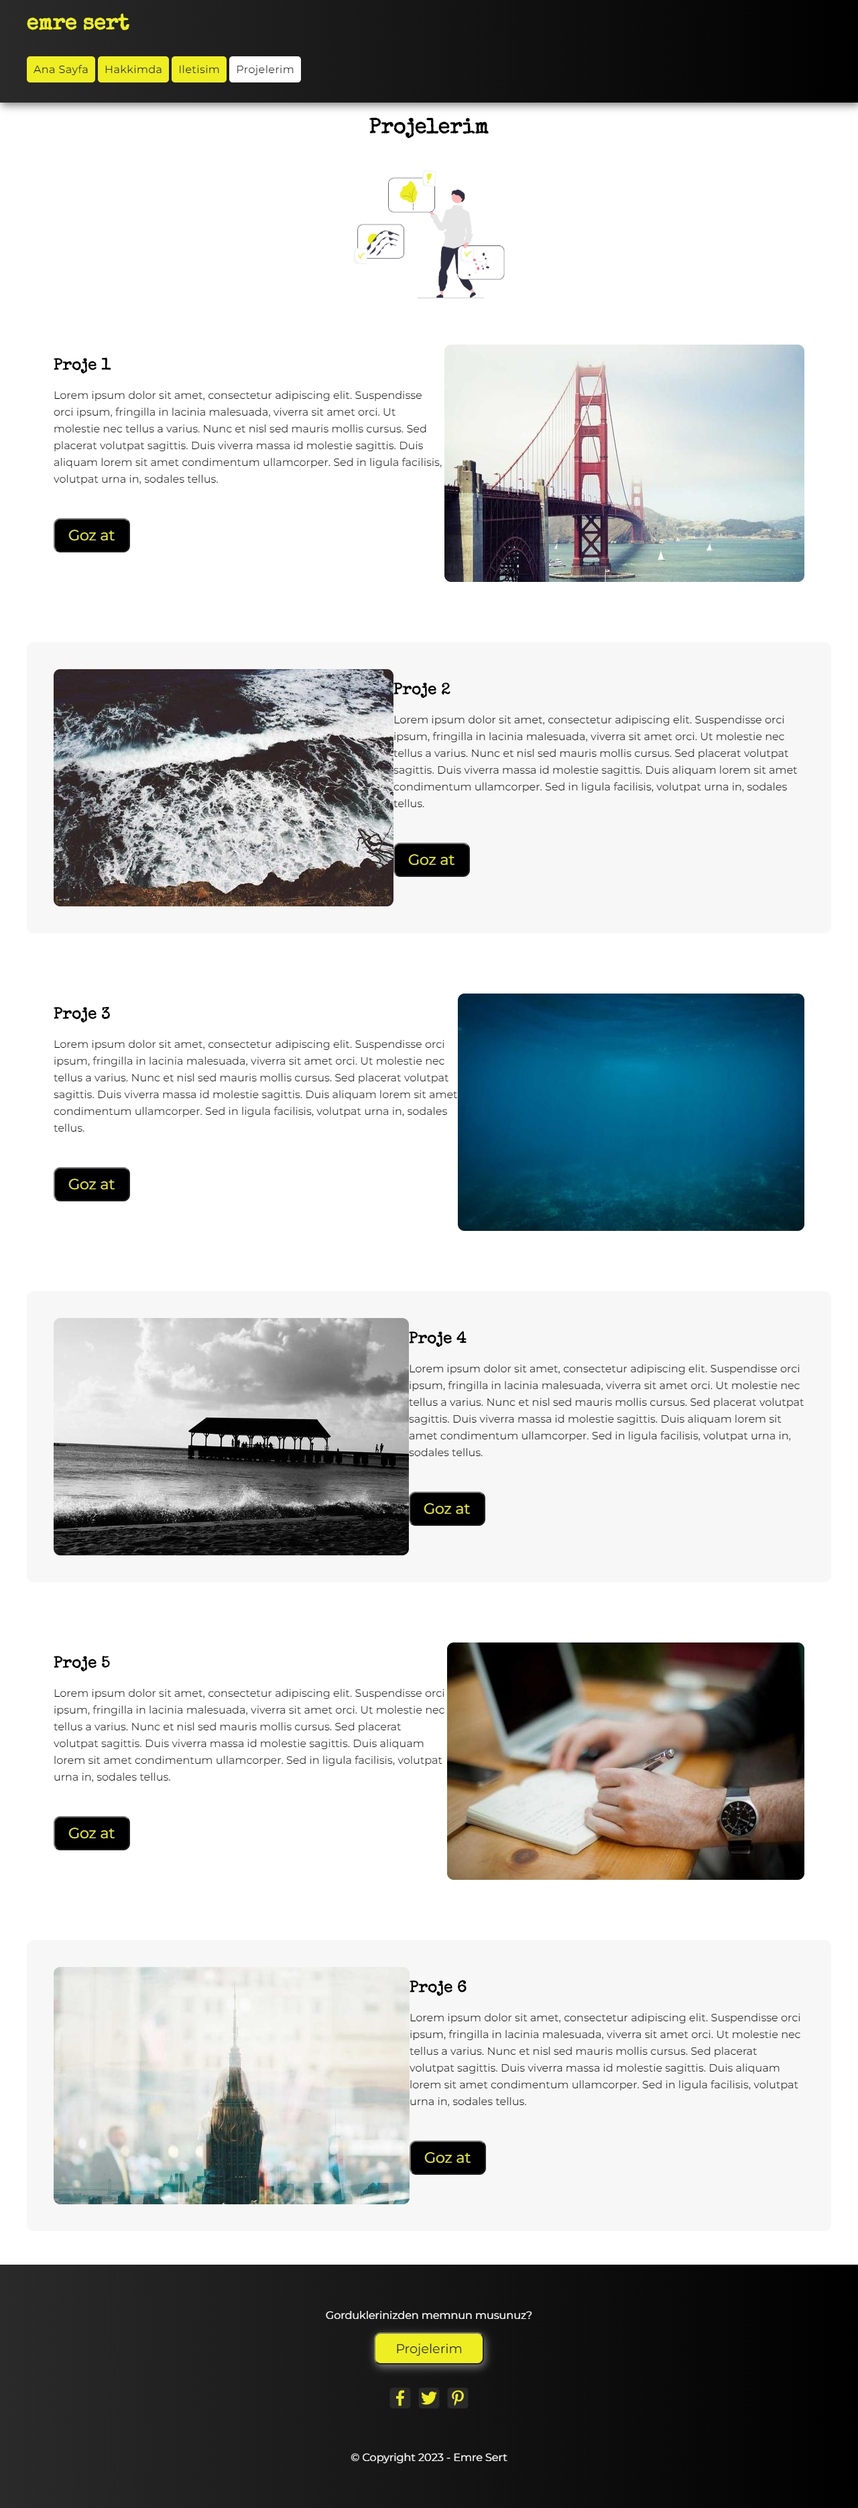
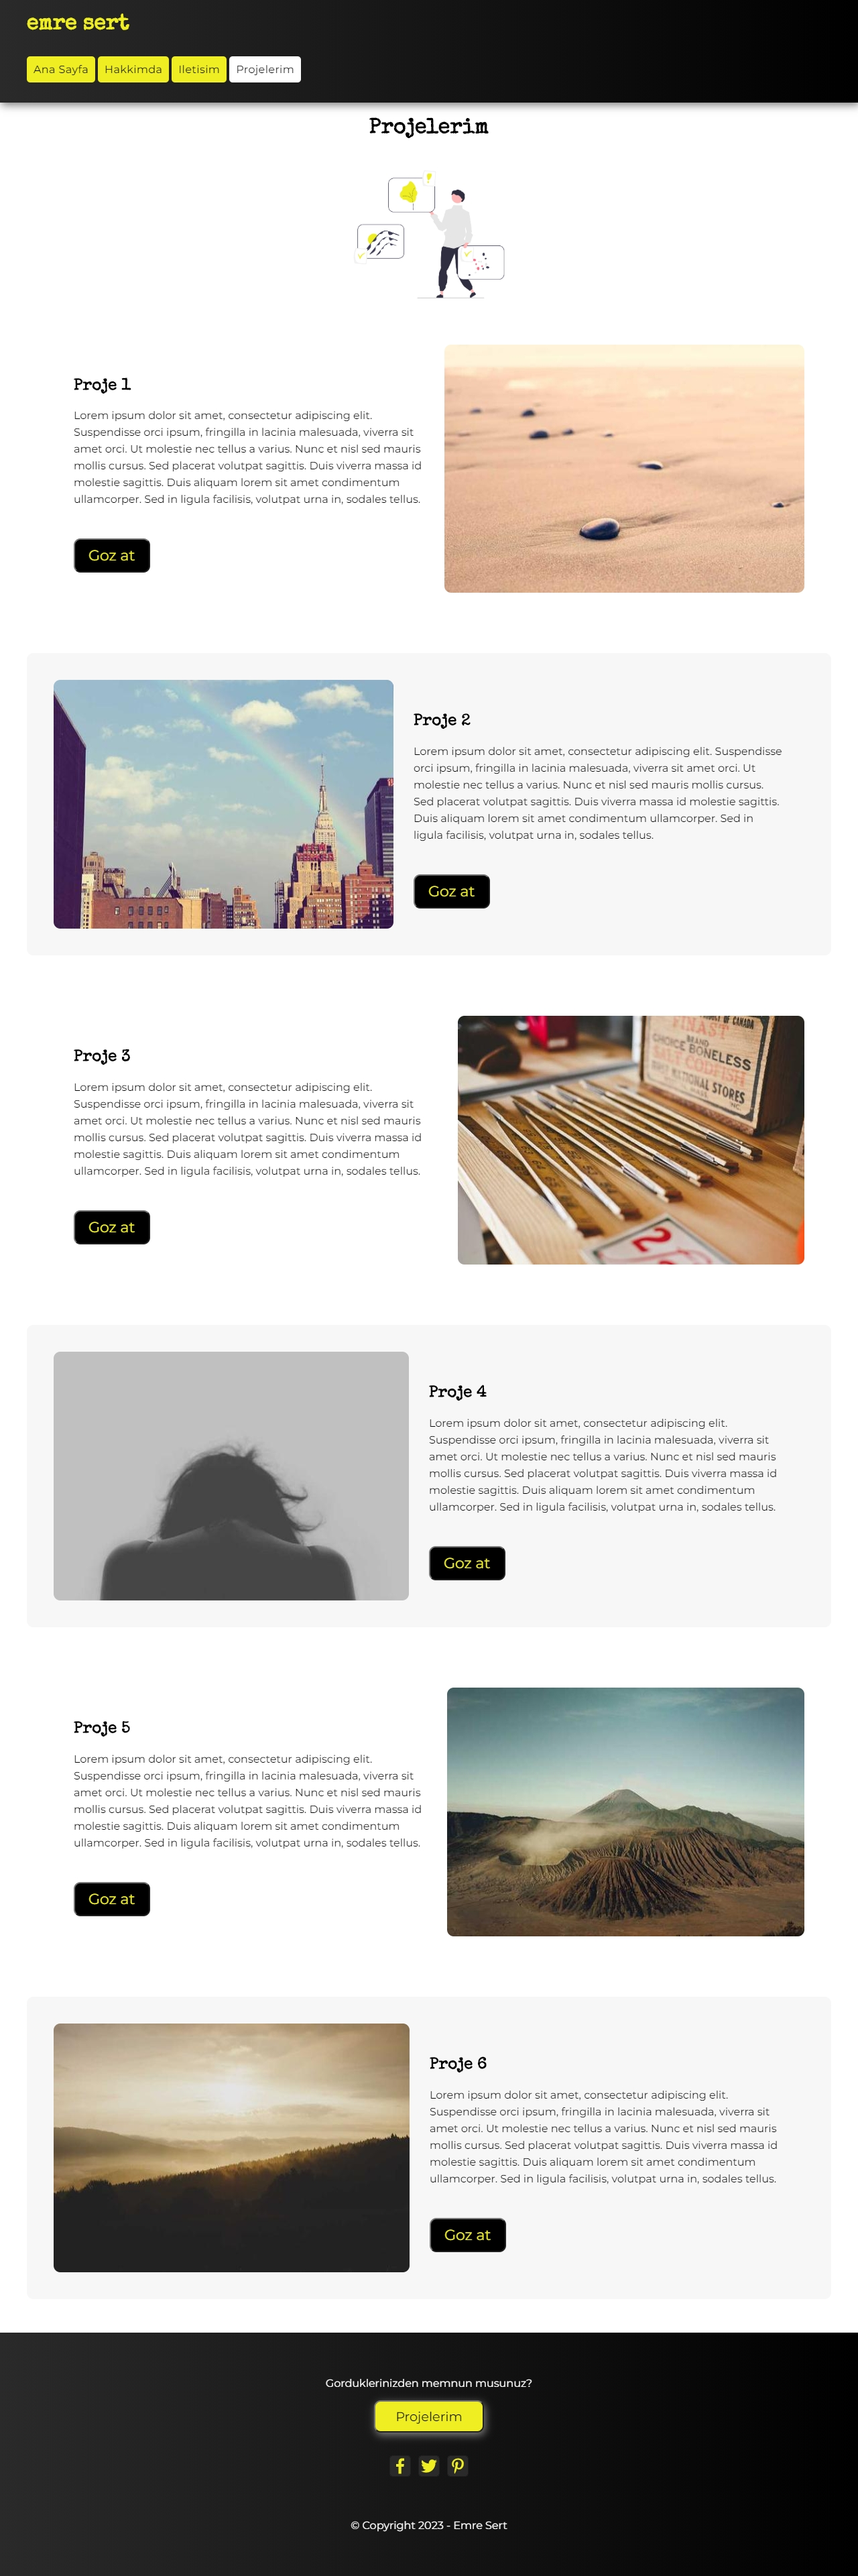
padding eklendi

diff --git a/style/index.css b/style/index.css
@@ -68,6 +68,9 @@ header nav a:hover {
         text-align: center;
     }
 
+    .proje-desc {
+        padding: 30px
+    }
 }
 
 /*Mobile Query*/
@@ -304,7 +307,6 @@ input[type=submit]:hover {
     line-height: 1.6em;
 }
 
-/*Mobile Query*/
 @media only screen and (max-width:480px) {
     .proje {
         padding: 30px;
